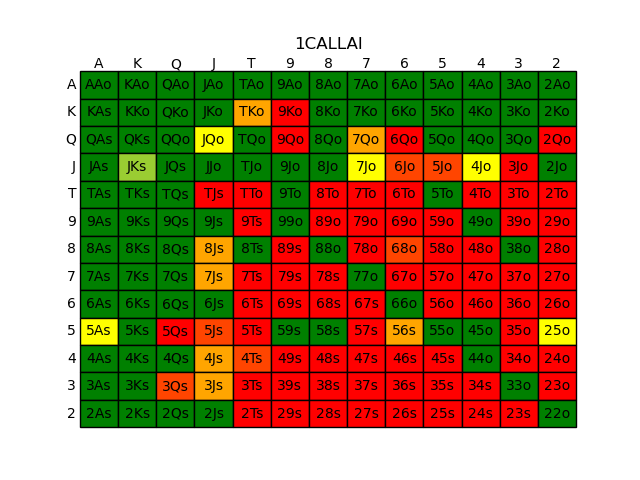
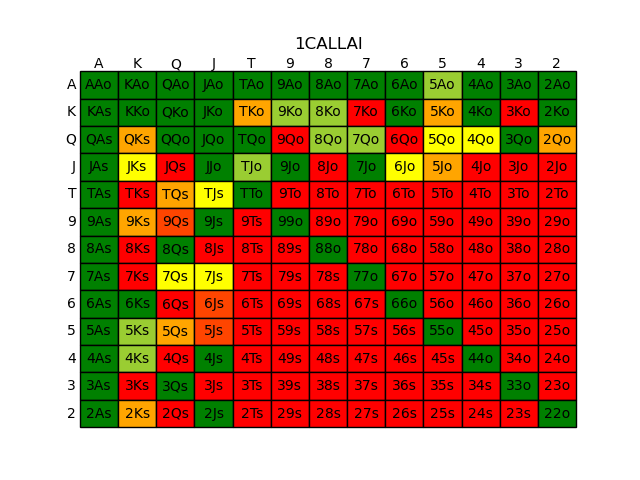
Updated regret weightings

diff --git a/game/GameWrapper.py b/game/GameWrapper.py
@@ -1,6 +1,7 @@
 from game.Poker import *
 from agents.PlayerShell import *
 from util.Node import *
+import matplotlib.pyplot as plt
 
 
 class GameWrapper:
@@ -11,7 +12,7 @@ class GameWrapper:
             PlayerShell(1),
             PlayerShell(2)
         ]
-        self.game = Poker(self.players, 20, 10000, True)
+        self.game = Poker(self.players, 2, 10, True)
         self.actions = []
 
     def hole_card_state(self, game, player):
@@ -29,8 +30,9 @@ class GameWrapper:
     def train(self, iterations, print_interval=1000):
         ''' Do ficticious self-play to find optimal strategy'''
         util = 0.0
-
+        utils = []
         for i in range(iterations):
+            utils.append(util / (i + 1))
             if i % print_interval == 0 and i != 0:
                 print("\rP1 expected value after %i iterations: %f" % (i, util / i))
 
@@ -39,6 +41,10 @@ class GameWrapper:
             actions = self.start_game(game)
             util += self.cfr(actions, game, 1, 1)
 
+        plt.plot(range(iterations), utils)
+        plt.xlabel('iteration')
+        plt.ylabel('average utility')
+        plt.savefig('ranges/util_trend.png')
         return util / iterations
 
     def get_strategy(self):
@@ -57,6 +63,8 @@ class GameWrapper:
             result[event] = {}
             if "BET" in event:
                 result[event[0] + "ALLIN"] = {}
+                result[event[0] + "CALL"] = {}
+                result[event[0] + "FOLD"] = {}
 
         for state, node in self.game_states.items():
             hand = state[0]
@@ -64,6 +72,8 @@ class GameWrapper:
             if "BET" in events[state[1], state[2]]:
                 result[event][hand] = node.strategy_[Action.BET3BB]
                 result[event[0] + "ALLIN"][hand] = node.strategy_[Action.ALLIN]
+                result[event[0] + "CALL"][hand] = node.strategy_[Action.CALL]
+                result[event[0] + "FOLD"][hand] = node.strategy_[Action.FOLD]
             else:
                 result[event][hand] = node.strategy_[Action.CALL]
 
@@ -71,24 +81,23 @@ class GameWrapper:
 
     def evaluation(self, game):
         reward = sum(game.bets.values())
-
         p1 = game.players[game.player_list.pos]
         p2 = game.players[1 - game.player_list.pos]
         pair1 = Card.get_rank_int(p1.cards[0]) == Card.get_rank_int(p1.cards[1])
         pair2 = Card.get_rank_int(p2.cards[0]) == Card.get_rank_int(p2.cards[1])
         higher = Card.get_rank_int(p1.cards[1]) > Card.get_rank_int(p2.cards[1])
         equal = Card.get_rank_int(p1.cards[1]) == Card.get_rank_int(p2.cards[1])
+
         if (pair1 and not pair2) or (pair1 and pair2 and higher) \
                 or (not pair1 and not pair2 and higher):
-            return reward
+            return reward - game.bets[p1.uuid]
         elif (pair2 and pair1 and equal) or (not pair1 and not pair2 and equal):
-            return 0
+            return (reward / 2) - game.bets[p1.uuid]
         else:
             return -game.bets[p1.uuid]
 
     def cfr(self, actions, game, p1, p2):
         player = game.player_list.pos
-        # game.player_list.next_player()
 
         probability_weight = p1 if player == 0 else p2
 
@@ -127,9 +136,9 @@ class GameWrapper:
         for action in actions:
             regret = util[action] - node_util
             if player == 0:
-                node.regret_sum_[action] += regret * p1
-            else:
                 node.regret_sum_[action] += regret * p2
+            else:
+                node.regret_sum_[action] += regret * p1
 
         return node_util
 

diff --git a/main.py b/main.py
@@ -19,7 +19,7 @@ def run_game():
 
 def create_ranges():
     cfr = GameWrapper()
-    util = cfr.train(3000000)
+    util = cfr.train(1000000)
 
     label = ['A', 'K', 'Q', 'J', 'T', '9', '8', '7', '6', '5', '4', '3', '2']
     rank_index_map = {

diff --git a/util/Node.py b/util/Node.py
@@ -33,7 +33,7 @@ class Node():
         return self.strategy_
 
     def get_average_strategy(self):
-        average_strategy = dict
+        average_strategy = {}
         normalizing_sum = 0
 
         for action in self.actions_:
